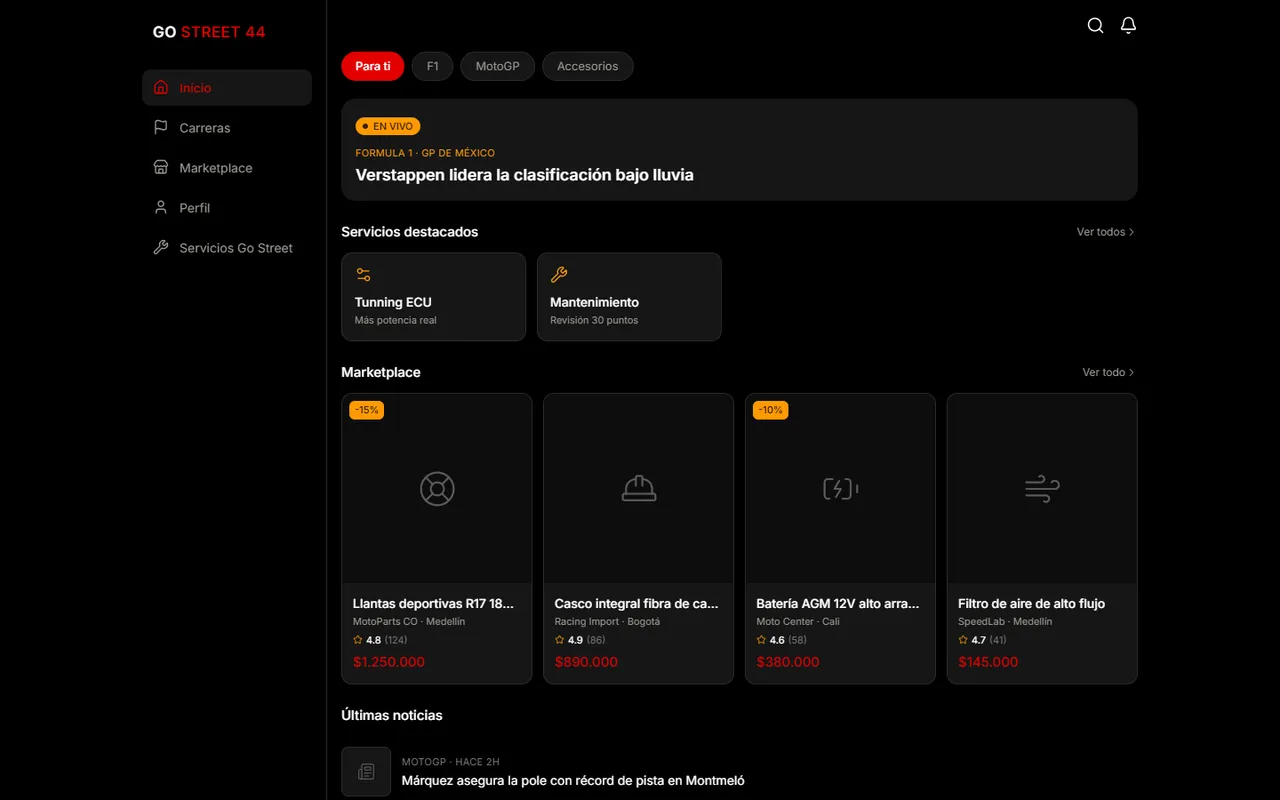
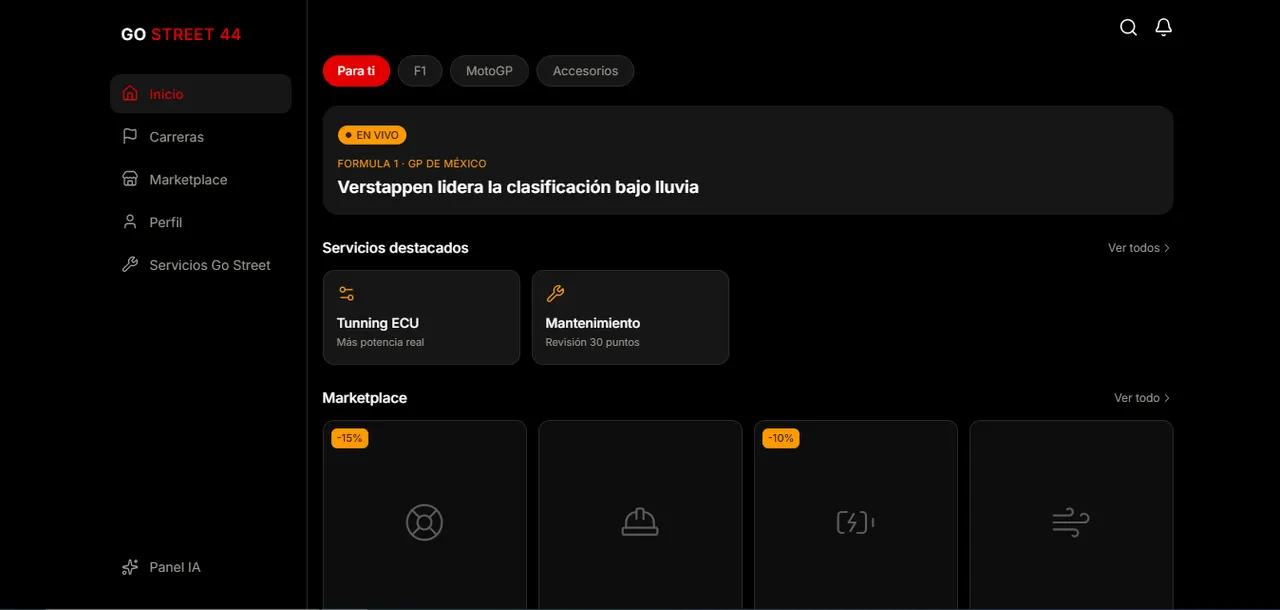
Add project screenshots for all three project cards
User-captured screenshots of G-44, GoSlides44 and Go Street 44,
converted to ~15 KB WebP each. Raw PNG sources git-ignored.

diff --git a/src/content/es.ts b/src/content/es.ts
@@ -82,6 +82,7 @@ export const es: Content = {
         tech: ["C#", "WPF", ".NET 8", "FFmpeg", "xUnit"],
         repoUrl: links.projects.g44Repo,
         availabilityNote: "Aplicación de escritorio para Windows",
+        image: "/projects/g44.webp",
         imageAlt: "Captura de pantalla de la interfaz del editor de video G-44",
       },
       {
@@ -98,6 +99,7 @@ export const es: Content = {
         tech: ["Node.js", "JavaScript"],
         repoUrl: links.projects.goSlides44Repo,
         availabilityNote: "Se ejecuta localmente — interfaz web o CLI",
+        image: "/projects/goslides44.webp",
         imageAlt: "Captura de pantalla de la herramienta GoSlides44 de markdown a pptx",
       },
     ],

diff --git a/src/content/en.ts b/src/content/en.ts
@@ -82,6 +82,7 @@ export const en: Content = {
         tech: ["C#", "WPF", ".NET 8", "FFmpeg", "xUnit"],
         repoUrl: links.projects.g44Repo,
         availabilityNote: "Windows desktop application",
+        image: "/projects/g44.webp",
         imageAlt: "G-44 video editor interface screenshot",
       },
       {
@@ -98,6 +99,7 @@ export const en: Content = {
         tech: ["Node.js", "JavaScript"],
         repoUrl: links.projects.goSlides44Repo,
         availabilityNote: "Runs locally — web UI or CLI",
+        image: "/projects/goslides44.webp",
         imageAlt: "GoSlides44 markdown-to-pptx tool screenshot",
       },
     ],
